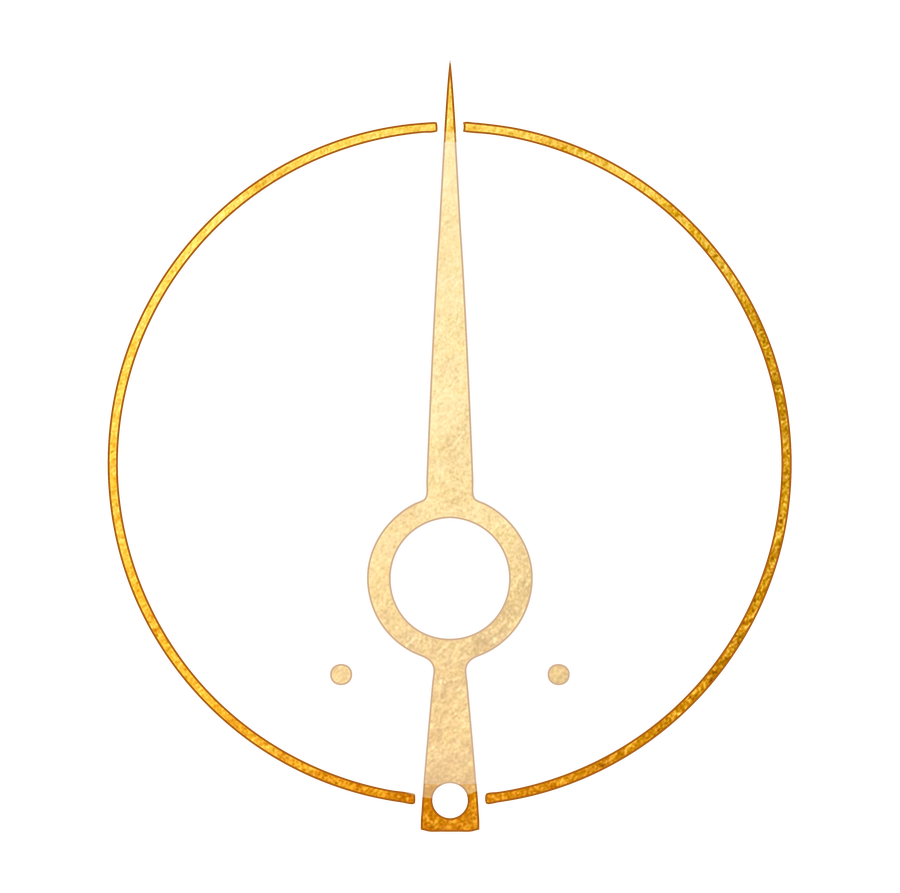
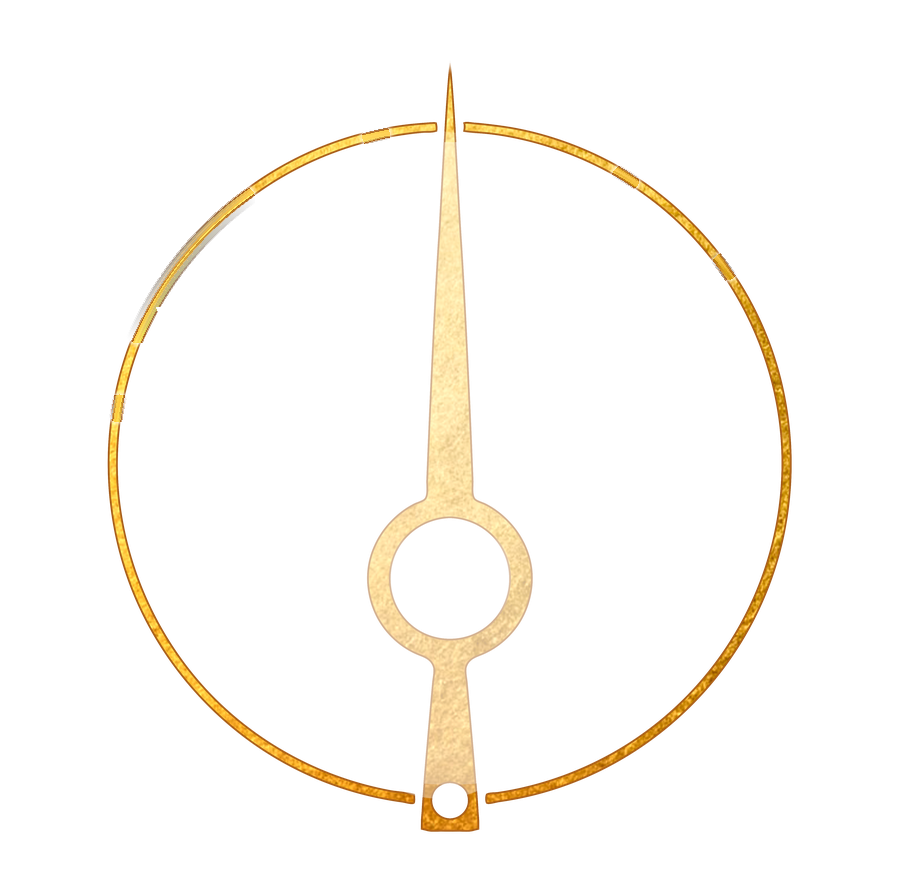
Add files via upload

diff --git a/src/app/components/mission-control/WorldMapSubstrate.jsx b/src/app/components/mission-control/WorldMapSubstrate.jsx
@@ -271,11 +271,14 @@ function buildCSS() {
 }
 
 [data-stage="dark"] .mc-substrate-halo {
+  /* Stops match the Atlas ground (at.ground #10222B) exactly, so the
+     halo fades the star map into the stage colour with no cast of its
+     own — the navy pool around the wheel belongs to WheelStage. */
   background: radial-gradient(
     circle at center,
-    rgba(15, 21, 35, ${HALO.intensityDark}) 0%,
-    rgba(15, 21, 35, ${HALO.intensityDark}) ${HALO.softness}%,
-    rgba(15, 21, 35, 0) 100%
+    rgba(16, 34, 43, ${HALO.intensityDark}) 0%,
+    rgba(16, 34, 43, ${HALO.intensityDark}) ${HALO.softness}%,
+    rgba(16, 34, 43, 0) 100%
   );
 }
 

diff --git a/src/app/components/mission-control/tokens.js b/src/app/components/mission-control/tokens.js
@@ -35,7 +35,11 @@ export const BG_PARCHMENT  = fn.ground
 export const BG_PAGE       = fn.object
 export const BG_CARD       = fn.object
 export const BG_CARD_EMPTY = 'rgba(244,245,239,0.5)'
-export const BG_INK        = fn.ink
+export const BG_INK        = at.ground   // dark-stage ground — Atlas sea ink.
+// June 2026: was fn.ink (#26302A), the Field Notes graphite — a green-biased
+// TEXT colour. Used as the planet-side page/bar/panel background it cast the
+// whole dark stage olive. The civ stage maps to Atlas tokens; its ground is
+// at.ground. fn.ink remains TEXT_INK below — text only, never a surface.
 export const BG_WARM       = fn.ground
 
 export const TEXT_INK         = fn.ink